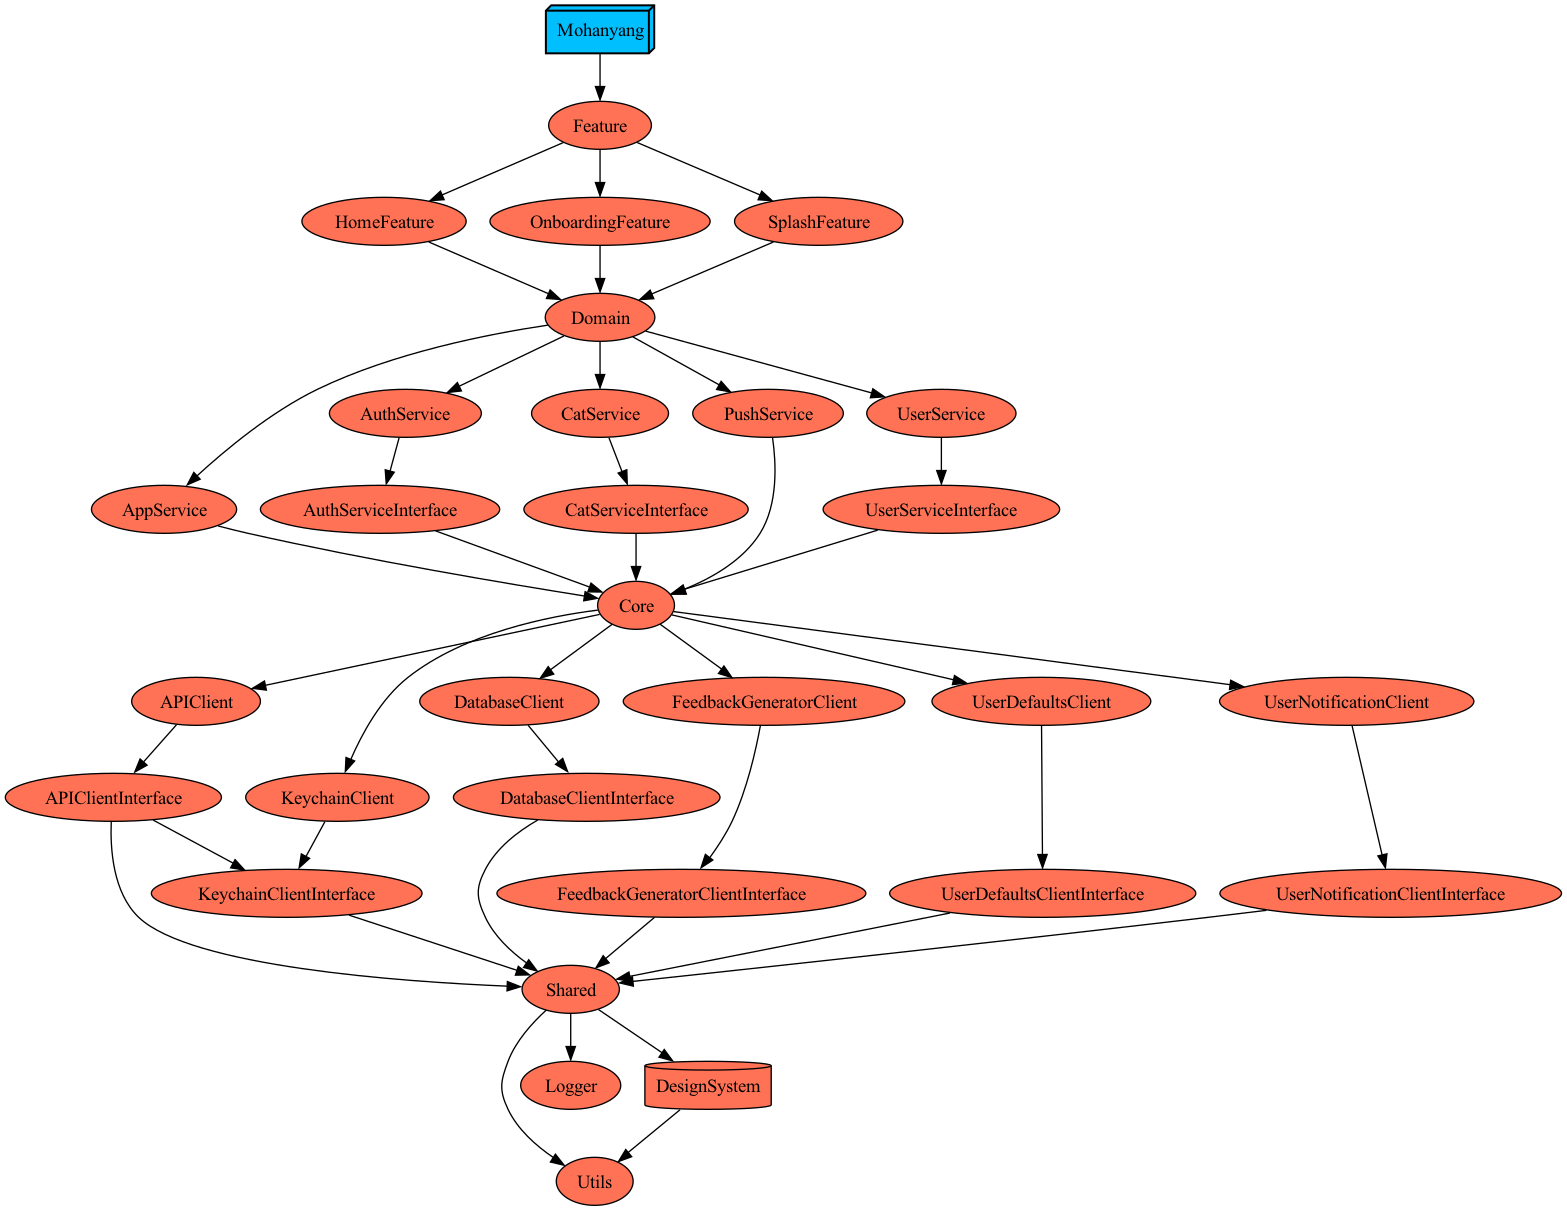
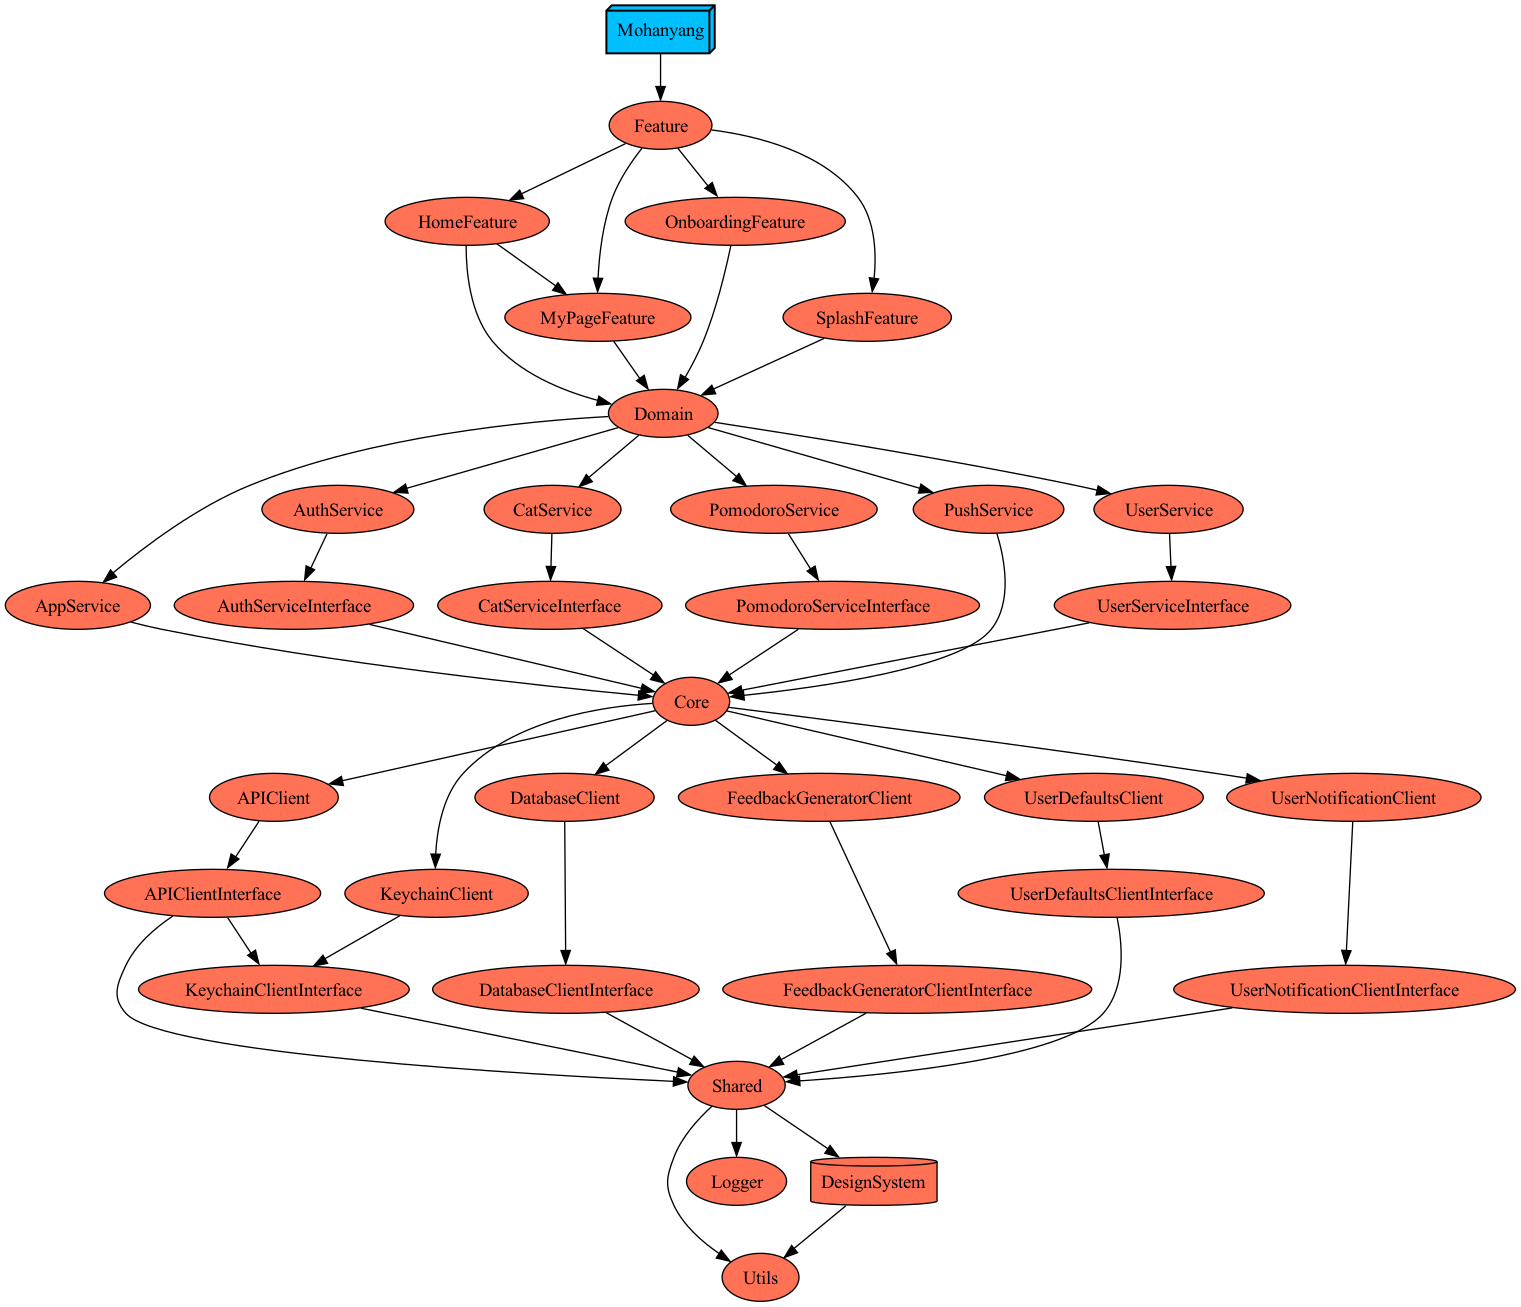
[CAT-212] MyPage main UI (#38)

Changed region(s): [[0.0, 0.0, 1.0, 1.0], [0.3399, 0.9472, 0.4017, 1.0]]

diff --git a/Projects/Feature/MyPageFeature/Sources/MyPage/MyPageView.swift b/Projects/Feature/MyPageFeature/Sources/MyPage/MyPageView.swift
@@ -1,0 +1,156 @@
+//
+//  MyPageView.swift
+//  MyPageFeature
+//
+//  Created by 김지현 on 8/19/24.
+//  Copyright © 2024 PomoNyang. All rights reserved.
+//
+
+import SwiftUI
+
+import DesignSystem
+
+import ComposableArchitecture
+
+public struct MyPageView: View {
+  @Bindable var store: StoreOf<MyPageCore>
+  
+  public init(store: StoreOf<MyPageCore>) {
+    self.store = store
+  }
+  
+  public var body: some View {
+    NavigationContainer(
+      title: Text("마이페이지"),
+      style: .navigation
+    ) {
+      ScrollView {
+        VStack(spacing: Alias.Spacing.medium) {
+
+          MyCatSectionView(name: store.catName)
+            .padding(.all, Alias.Spacing.xLarge)
+            .background(
+              RoundedRectangle(cornerRadius: Alias.BorderRadius.small)
+                .foregroundStyle(Alias.Color.Background.secondary)
+            )
+
+          StatisticSectionView(isInternetConnected: $store.isInternetConnected)
+            .padding(.all, Alias.Spacing.xLarge)
+            .background(
+              RoundedRectangle(cornerRadius: Alias.BorderRadius.medium)
+                .foregroundStyle(Alias.Color.Background.secondary)
+            )
+
+          VStack(spacing: Alias.Spacing.large) {
+            AlarmSectionView(
+              title: "집중시간 알림받기",
+              subTitle: "집중・휴식시간이 되면 고양이가 알려줘요",
+              isOn: $store.isFocusTimeAlarmOn
+            )
+            AlarmSectionView(
+              title: "딴 짓 방해하기",
+              subTitle: "다른 앱을 사용하면 고양이가 방해해요",
+              isOn: $store.isDisturbAlarmOn
+            )
+          }
+          .padding(.all, Alias.Spacing.xLarge)
+          .background(
+            RoundedRectangle(cornerRadius: Alias.BorderRadius.small)
+              .foregroundStyle(Alias.Color.Background.secondary)
+          )
+
+          HStack {
+            Text("의견 보내기")
+            Spacer()
+            DesignSystemAsset.Image._24ChevronRightPrimary.swiftUIImage
+          }
+          .padding(.all, Alias.Spacing.xLarge)
+          .background(
+            RoundedRectangle(cornerRadius: Alias.BorderRadius.small)
+              .foregroundStyle(Alias.Color.Background.secondary)
+          )
+
+        }
+        .padding(.horizontal, Alias.Spacing.xLarge)
+
+        Spacer(minLength: Alias.Spacing.xxxLarge)
+      }
+      .scrollIndicators(.never)
+    }
+    .background(Alias.Color.Background.primary)
+  }
+}
+
+struct MyCatSectionView: View {
+  let name: String
+
+  var body: some View {
+    HStack {
+      VStack(alignment: .leading, spacing: Alias.Spacing.xSmall) {
+        Text("나의 고양이")
+          .font(Typography.subBodyR)
+          .foregroundStyle(Alias.Color.Text.tertiary)
+        Text(name)
+          .font(Typography.header4)
+          .foregroundStyle(Color.black)
+      }
+      Spacer()
+      DesignSystemAsset.Image._24ChevronRightPrimary.swiftUIImage
+    }
+  }
+}
+
+struct StatisticSectionView: View {
+  @Binding var isInternetConnected: Bool
+
+  var body: some View {
+    ZStack {
+      VStack(spacing: Alias.Spacing.medium) {
+        Spacer()
+        if isInternetConnected {
+          DesignSystemAsset.Image.imgUpdateStatistics.swiftUIImage
+        } else {
+          DesignSystemAsset.Image.imgOfflineStatistics.swiftUIImage
+        }
+        VStack(spacing: Alias.Spacing.xSmall) {
+          Text("통계 기능을 준비하고 있어요")
+            .font(Typography.header4)
+            .foregroundStyle(Alias.Color.Text.primary)
+          Text("집중시간을 모아보는 통계가\n곧업데이트될 예정이에요")
+            .font(Typography.subBodyR)
+            .foregroundStyle(Alias.Color.Text.secondary)
+            .multilineTextAlignment(.center)
+        }
+        Spacer()
+      }
+    }
+    .frame(maxWidth: .infinity)
+    .frame(minHeight: 375)
+  }
+}
+
+struct AlarmSectionView: View {
+  let title: String
+  let subTitle: String
+  @Binding var isOn: Bool
+  
+  var body: some View {
+    HStack(spacing: 0) {
+      VStack(alignment: .leading, spacing: Alias.Spacing.xSmall) {
+        Text(title)
+          .font(Typography.bodySB)
+          .foregroundStyle(Alias.Color.Text.primary)
+        Text(subTitle)
+          .font(Typography.subBodyR)
+          .foregroundStyle(Alias.Color.Text.tertiary)
+          .lineLimit(1)
+      }
+
+      Spacer()
+
+      Toggle("", isOn: $isOn)
+        .labelsHidden()
+        .tint(Alias.Color.Background.accent1)
+    }
+  }
+}

diff --git a/Projects/Feature/HomeFeature/Sources/Home/HomeCore.swift b/Projects/Feature/HomeFeature/Sources/Home/HomeCore.swift
@@ -13,6 +13,7 @@ import UserDefaultsClientInterface
 import DatabaseClientInterface
 import PomodoroServiceInterface
 import APIClientInterface
+import MyPageFeature
 
 import ComposableArchitecture
 
@@ -29,7 +30,8 @@ public struct HomeCore {
     
     @Presents var categorySelect: CategorySelectCore.State?
     @Presents var timeSelect: TimeSelectCore.State?
-    
+    @Presents var myPage: MyPageCore.State?
+
     public init() {}
   }
   
@@ -50,6 +52,7 @@ public struct HomeCore {
     
     case categorySelect(PresentationAction<CategorySelectCore.Action>)
     case timeSelect(PresentationAction<TimeSelectCore.Action>)
+    case myPage(PresentationAction<MyPageCore.Action>)
   }
   
   @Dependency(UserDefaultsClient.self) var userDefaultsClient
@@ -68,6 +71,9 @@ public struct HomeCore {
       }
       .ifLet(\.$timeSelect, action: \.timeSelect) {
         TimeSelectCore()
+      }
+      .ifLet(\.$myPage, action: \.myPage) {
+        MyPageCore()
       }
   }
   
@@ -118,6 +124,7 @@ public struct HomeCore {
       return .none
       
     case .mypageButtonTappd:
+      state.myPage = MyPageCore.State()
       return .none
       
     case .playButtonTapped:
@@ -160,6 +167,9 @@ public struct HomeCore {
       }
       
     case .timeSelect:
+      return .none
+
+    case .myPage:
       return .none
     }
   }

diff --git a/Projects/Feature/MyPageFeature/Tests/MyPageFeatureTests.swift b/Projects/Feature/MyPageFeature/Tests/MyPageFeatureTests.swift
@@ -1,0 +1,33 @@
+//
+//  MyPageFeatureTests.swift
+//  MyPageFeature
+//
+//  Created by <#T##Author name#> on 8/19/24.
+//
+
+import XCTest
+
+final class MyPageFeatureTests: XCTestCase {
+  override func setUpWithError() throws {
+    // Put setup code here. This method is called before the invocation of each test method in the class.
+  }
+  
+  override func tearDownWithError() throws {
+    // Put teardown code here. This method is called after the invocation of each test method in the class.
+  }
+  
+  func testExample() throws {
+    // This is an example of a functional test case.
+    // Use XCTAssert and related functions to verify your tests produce the correct results.
+    // Any test you write for XCTest can be annotated as throws and async.
+    // Mark your test throws to produce an unexpected failure when your test encounters an uncaught error.
+    // Mark your test async to allow awaiting for asynchronous code to complete. Check the results with assertions afterwards.
+  }
+  
+  func testPerformanceExample() throws {
+    // This is an example of a performance test case.
+    self.measure {
+      // Put the code you want to measure the time of here.
+    }
+  }
+}

diff --git a/Projects/Feature/MyPageFeature/Sources/MyPage/MyPageCore.swift b/Projects/Feature/MyPageFeature/Sources/MyPage/MyPageCore.swift
@@ -1,0 +1,44 @@
+//
+//  MyPageCore.swift
+//  MyPageFeature
+//
+//  Created by 김지현 on 8/19/24.
+//  Copyright © 2024 PomoNyang. All rights reserved.
+//
+
+import ComposableArchitecture
+
+@Reducer
+public struct MyPageCore {
+  @ObservableState
+  public struct State: Equatable {
+    public init() { }
+    var catName: String = "머루"
+    var isFocusTimeAlarmOn: Bool = false
+    var isDisturbAlarmOn: Bool = false
+    var isInternetConnected: Bool = false
+  }
+  
+  public enum Action: BindableAction {
+    case onAppear
+    case binding(BindingAction<State>)
+  }
+
+  // @Dependency
+
+  public init() {}
+  
+  public var body: some ReducerOf<Self> {
+    BindingReducer()
+    Reduce(self.core)
+  }
+  
+  private func core(state: inout State, action: Action) -> EffectOf<Self> {
+    switch action {
+    case .onAppear:
+      return .none
+    case .binding:
+      return .none
+    }
+  }
+}

diff --git a/Projects/Feature/MyPageFeature/Project.swift b/Projects/Feature/MyPageFeature/Project.swift
@@ -6,18 +6,16 @@ import ProjectDescriptionHelpers
 import DependencyPlugin
 
 let project: Project = .makeTMABasedProject(
-  module: Feature.HomeFeature,
+  module: Feature.MyPageFeature,
   scripts: [],
   targets: [
     .sources,
     .tests,
-    .testing,
-    .example
+    .testing
   ],
   dependencies: [
     .sources: [
-      .dependency(rootModule: Domain.self),
-      .dependency(module: Feature.MyPageFeature, target: .sources)
-    ],
+      .dependency(rootModule: Domain.self)
+    ]
   ]
 )

diff --git a/Projects/Feature/HomeFeature/Sources/Home/HomeView.swift b/Projects/Feature/HomeFeature/Sources/Home/HomeView.swift
@@ -8,6 +8,7 @@
 
 import SwiftUI
 
+import MyPageFeature
 import DesignSystem
 import Utils
 
@@ -119,6 +120,14 @@ public struct HomeView: View {
       )
     ) { store in
       TimeSelectView(store: store)
+    }
+    .navigationDestination(
+      item: $store.scope(
+        state: \.myPage,
+        action: \.myPage
+      )
+    ) { store in
+      MyPageView(store: store)
     }
     .onLoad {
       store.send(.onLoad)

diff --git a/Projects/Feature/MyPageFeature/Testing/MyPageFeatureTesting.swift b/Projects/Feature/MyPageFeature/Testing/MyPageFeatureTesting.swift
@@ -1,0 +1,12 @@
+//
+//  MyPageFeatureTesting.swift
+//  MyPageFeature
+//
+//  Created by <#T##Author name#> on 8/19/24.
+//
+
+import Foundation
+
+public struct MyPageFeatureTesting {
+  public init() {}
+}

diff --git a/Projects/Feature/Feature/Sources/AppCore.swift b/Projects/Feature/Feature/Sources/AppCore.swift
@@ -11,6 +11,7 @@ import SwiftUI
 import SplashFeature
 import HomeFeature
 import OnboardingFeature
+import MyPageFeature
 import PushService
 
 import ComposableArchitecture

diff --git a/Plugins/DependencyPlugin/ProjectDescriptionHelpers/Module/Feature.swift b/Plugins/DependencyPlugin/ProjectDescriptionHelpers/Module/Feature.swift
@@ -12,4 +12,5 @@ public enum Feature: String, Modulable {
   case SplashFeature
   case HomeFeature
   case OnboardingFeature
+  case MyPageFeature
 }
